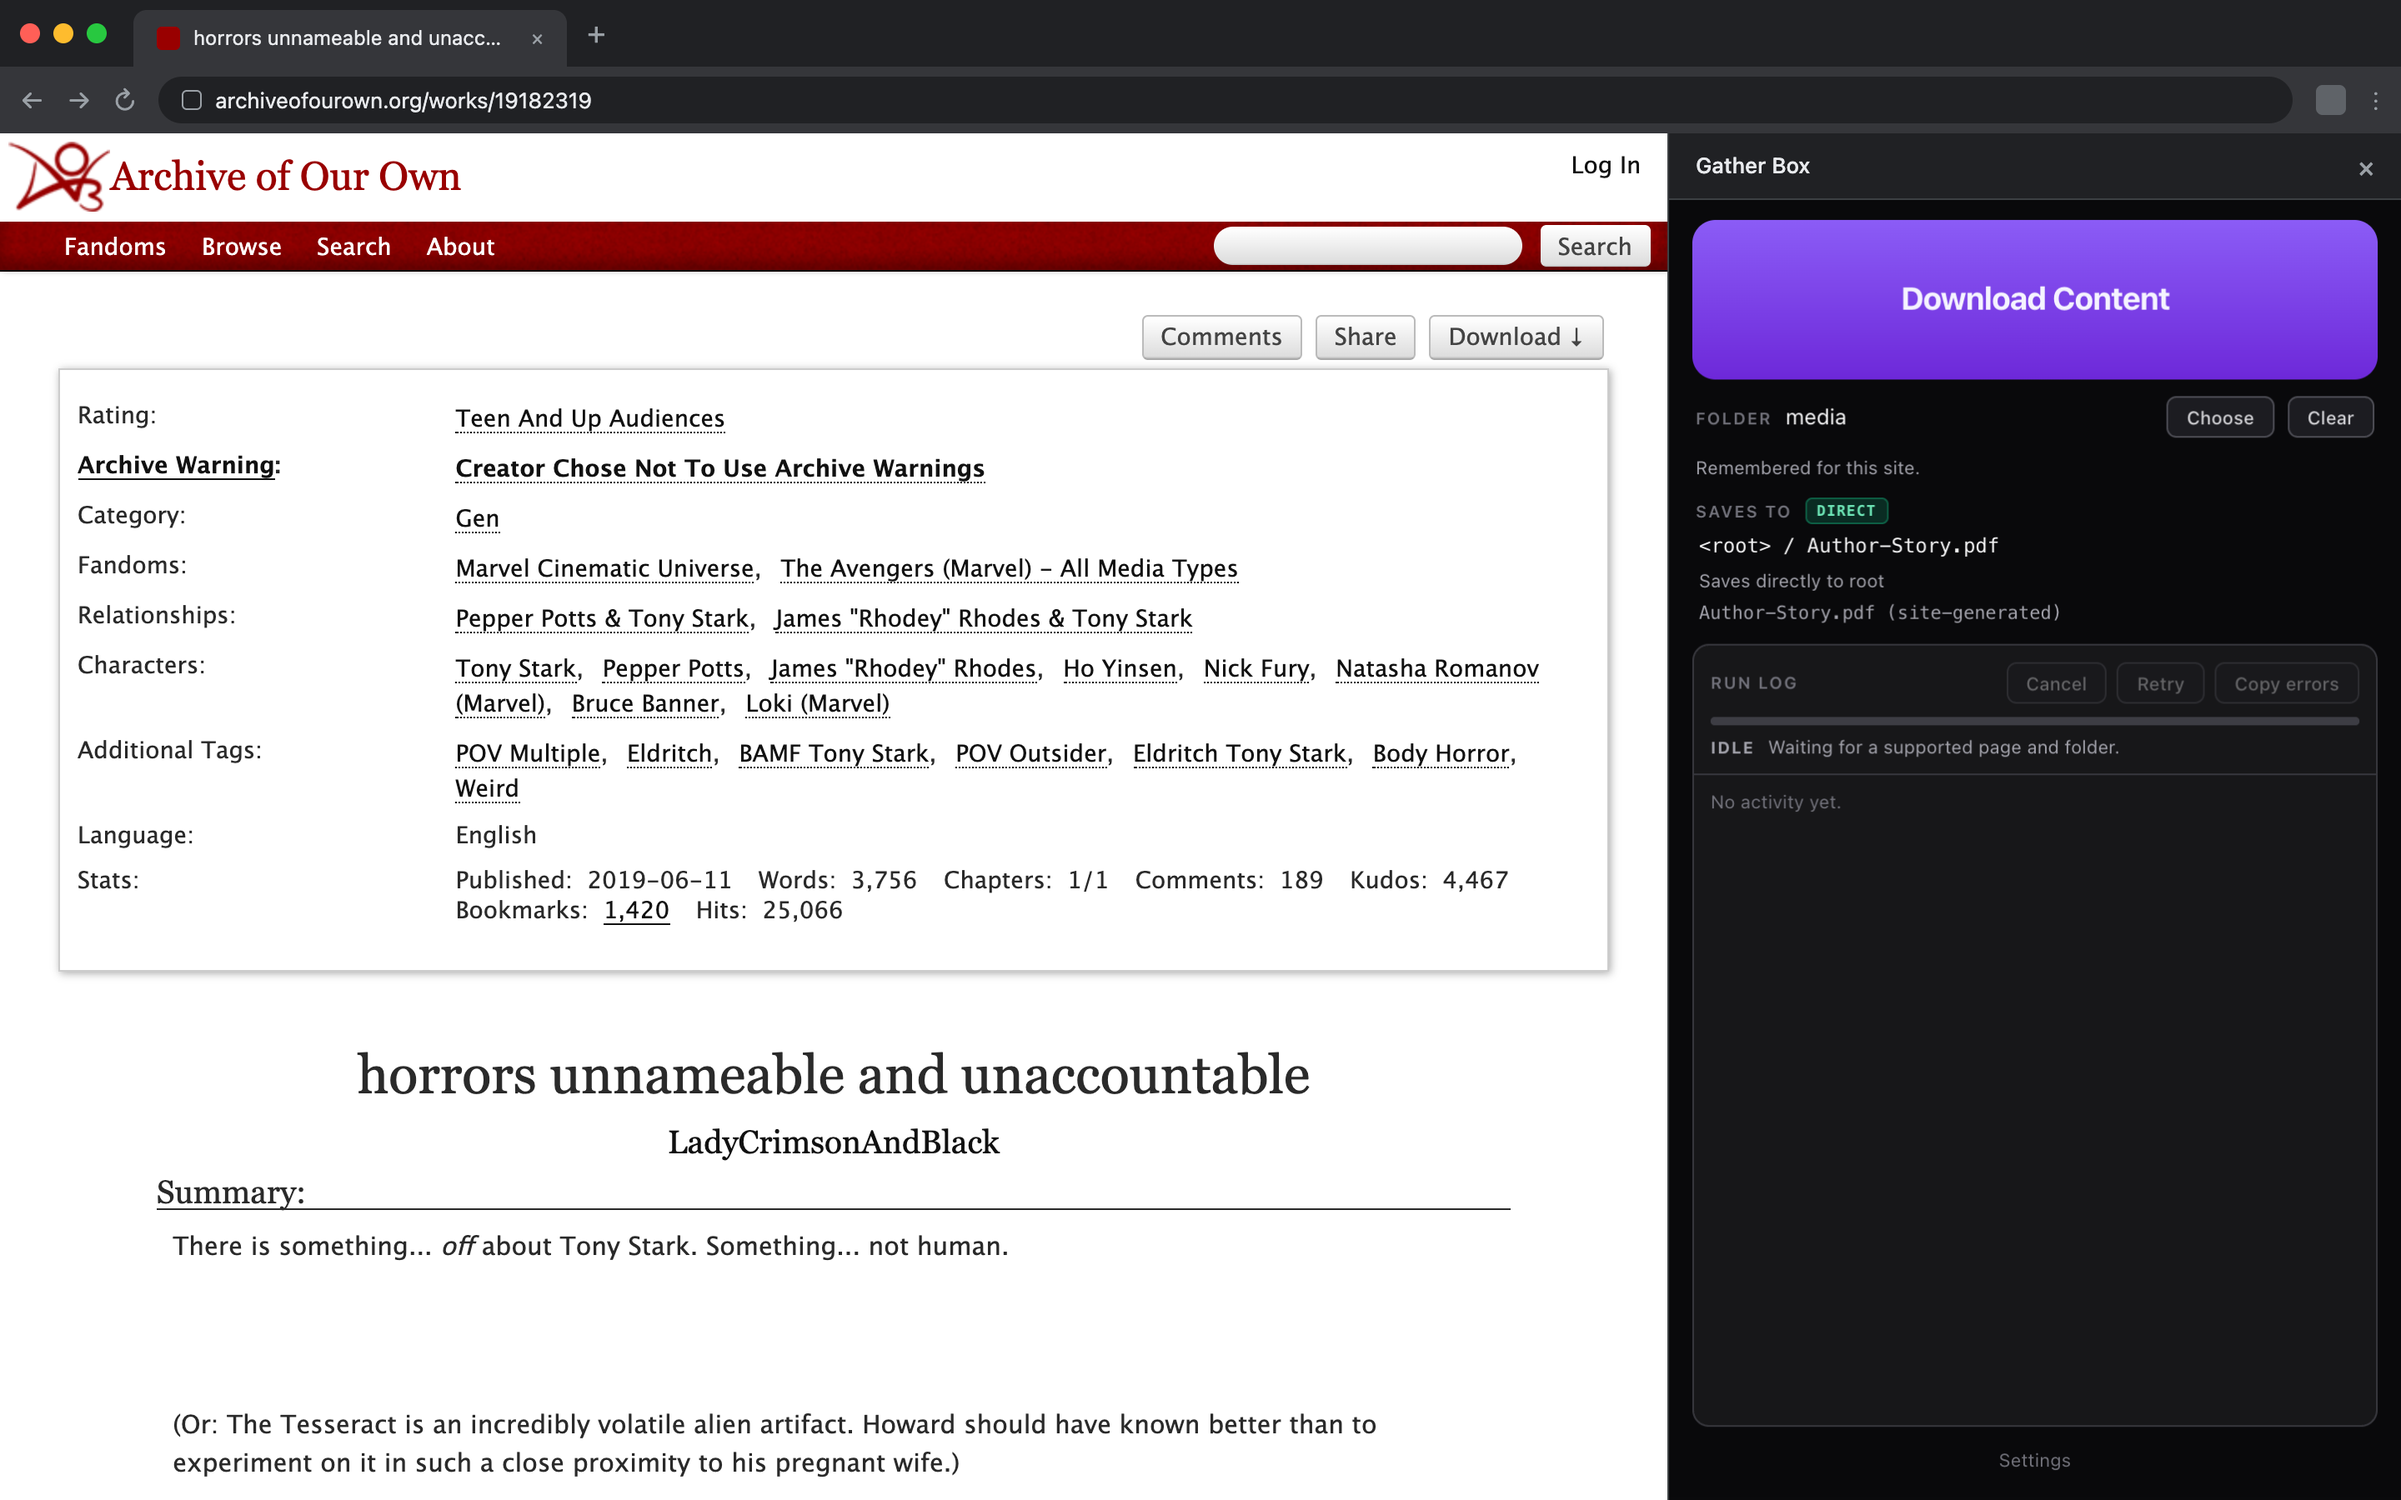
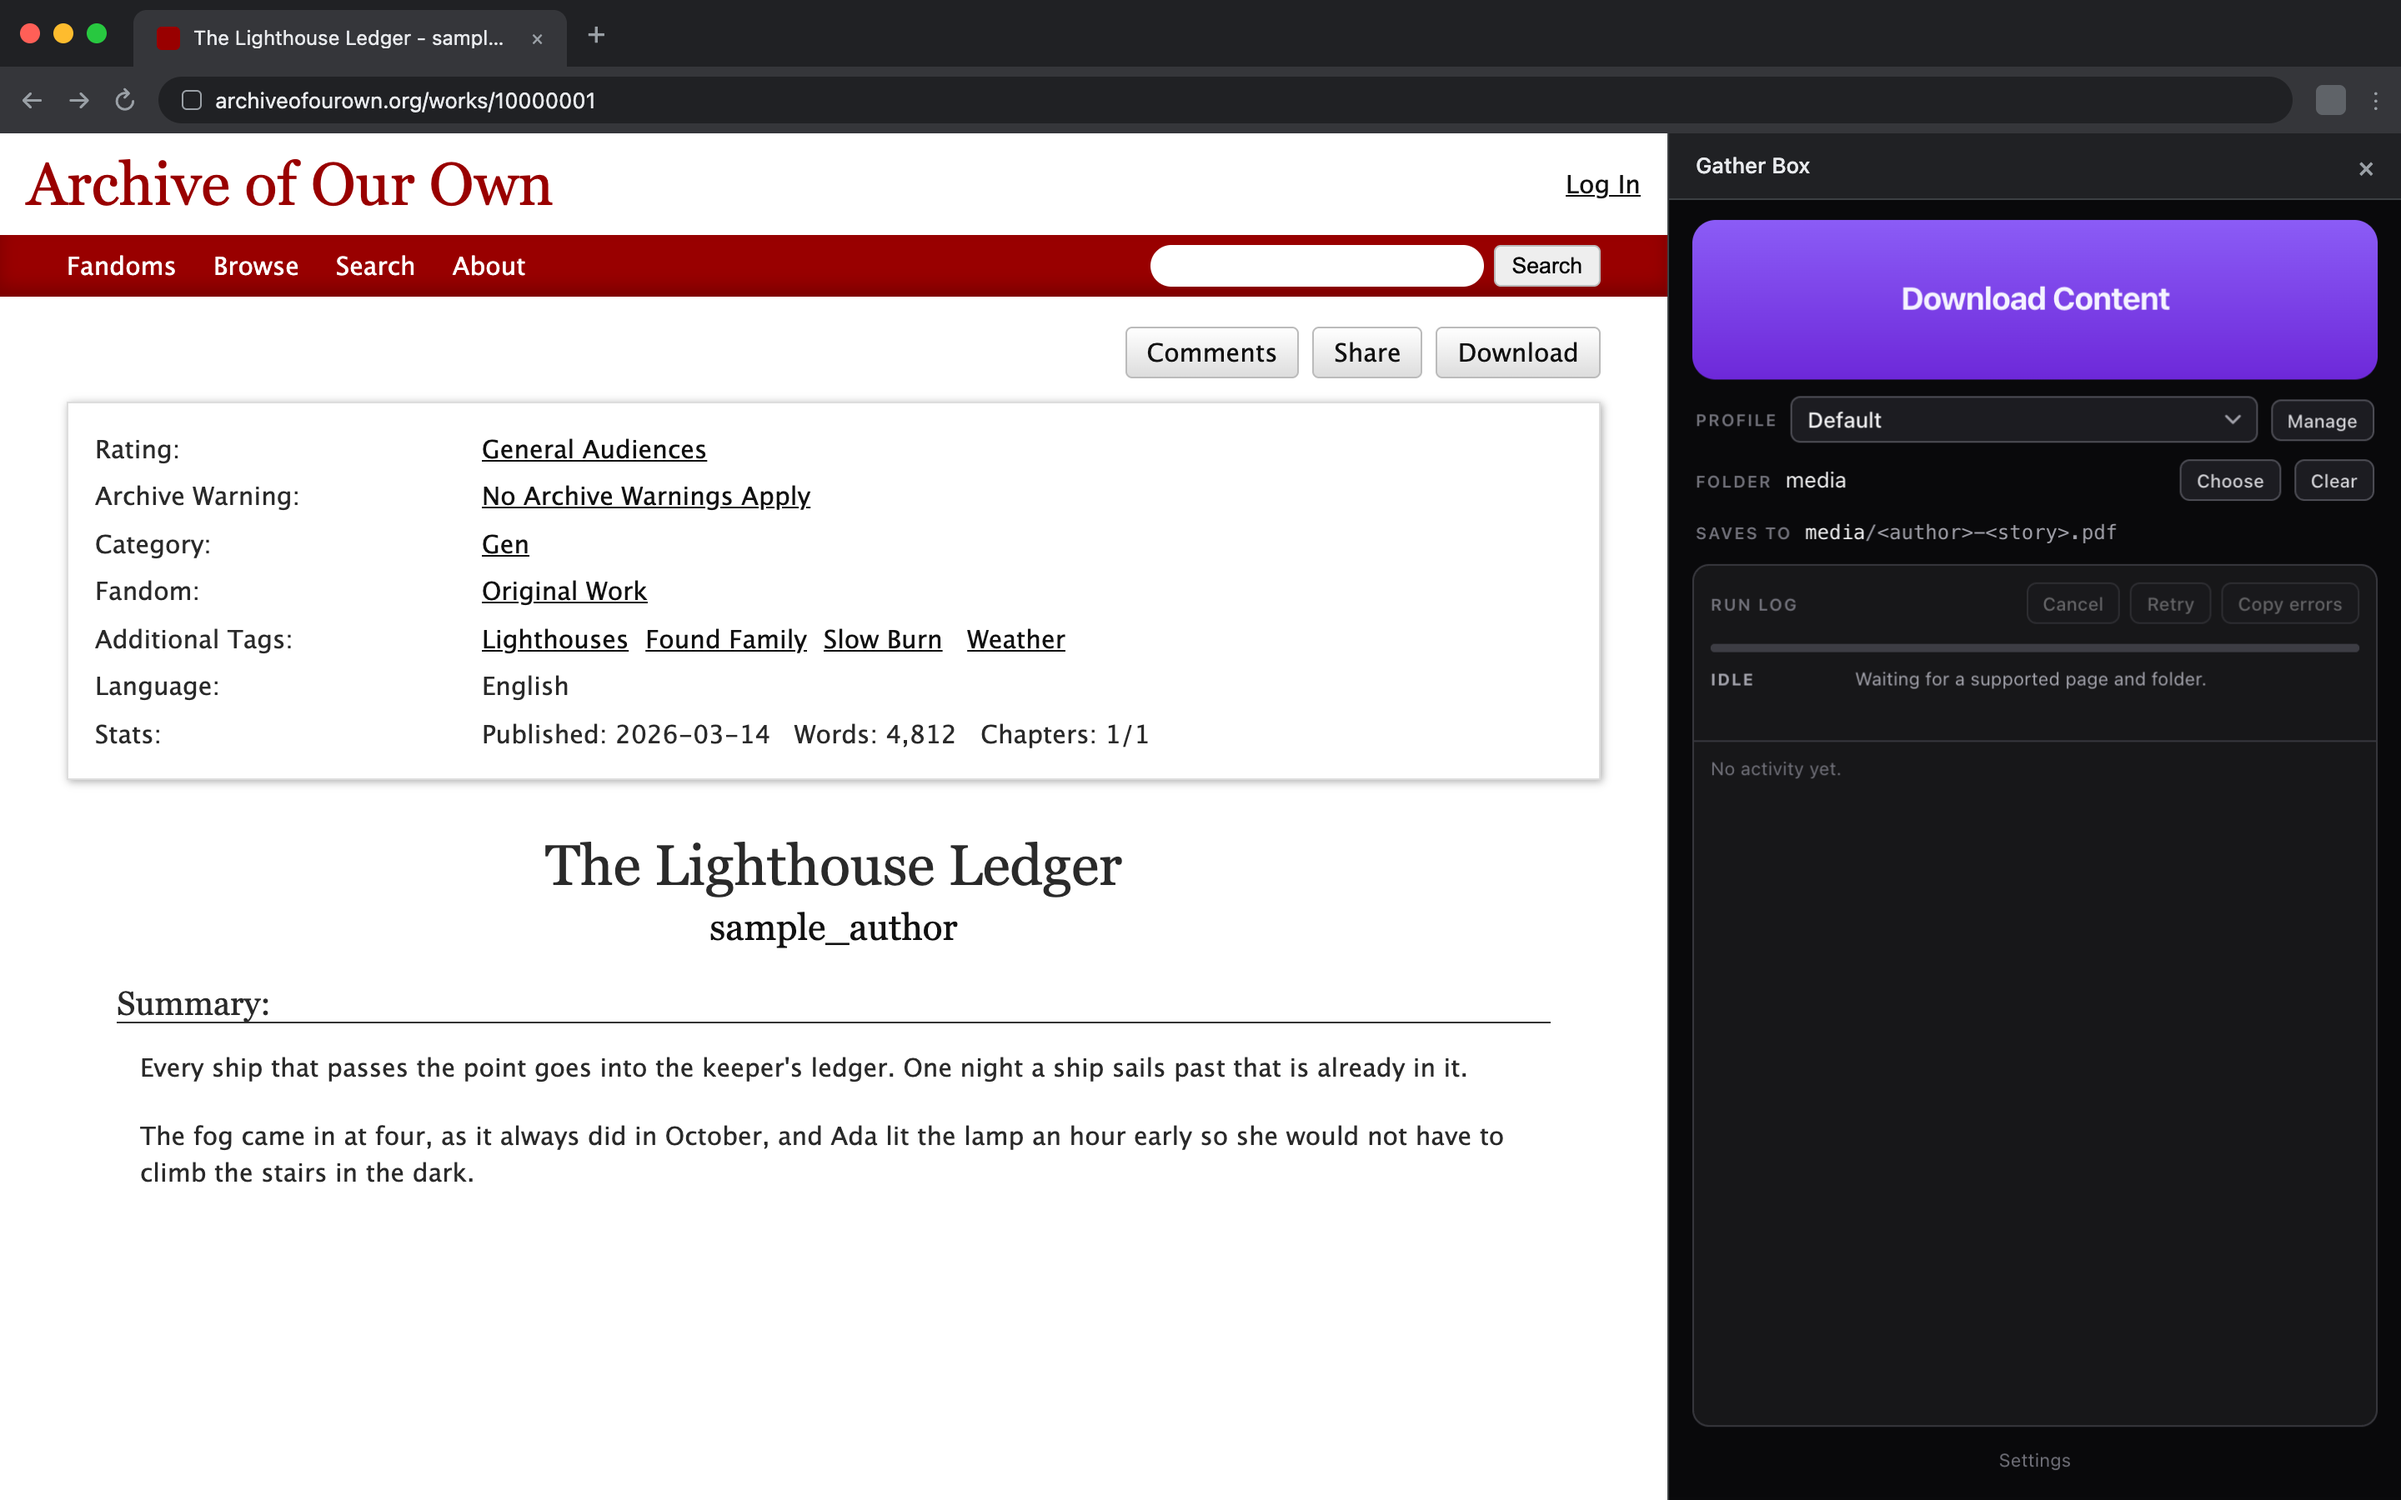
chore(showcase): capture Gather Box on a mock AO3 work page
AO3 refuses automated browsers, so the capture answers AO3's URLs with a local mock work page that the extension's AO3 collector reads unchanged.

diff --git a/apps/showcase/README.md b/apps/showcase/README.md
@@ -52,7 +52,9 @@ over, delete `/tmp/showcase-archive` and run the prepare script again.
   viewer. Thumbnails come straight from rustfs via Pane View's Shutter-less pass-through mode
   (leave `SHUTTER_EDGE_URL` empty in `.env`).
 - `capture-gather-box.mjs`: loads the unpacked extension into the vendored Chrome and captures
-  the actual side panel in idle and active states.
+  the actual side panel in idle and active states. AO3 refuses automated browsers, so the AO3
+  pages are a local mock (`mock-archive.mjs`) served at AO3's own URLs, where the extension's
+  AO3 collector runs unchanged.
 - `capture-oriel.mjs` (macOS only): launches the bundled Oriel once per screenshot on a throwaway
   data folder and captures its window with `screencapture`, once two captures in a row match. The
   `ORIEL_*` check variables (`docs/runbooks/oriel.md`) open each screen, all saved under
